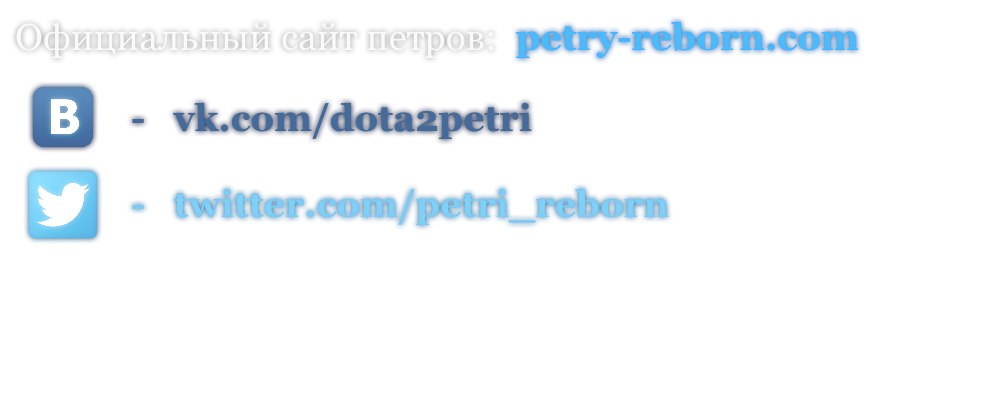
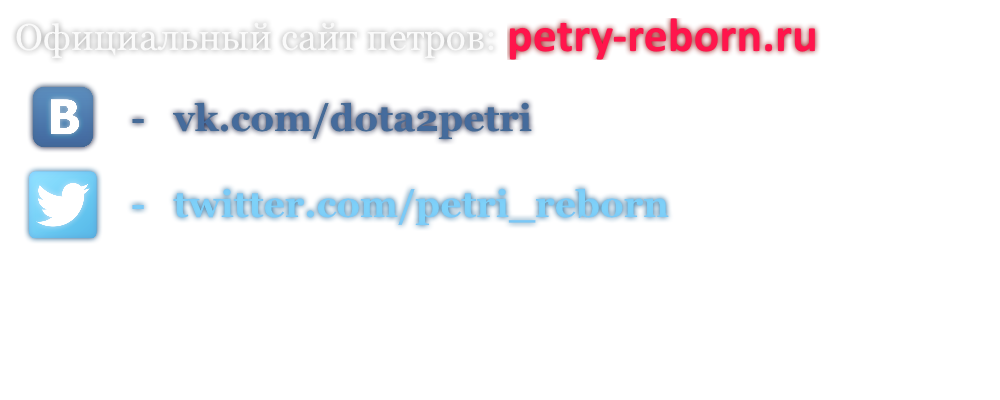
Fixed typo in loading screen picture

Changed region(s): [[0.496, 0.03, 0.868, 0.15]]

diff --git a/content/dota_addons/petri_reborn/panorama/styles/custom_game/custom_loading_screen.css b/content/dota_addons/petri_reborn/panorama/styles/custom_game/custom_loading_screen.css
@@ -44,7 +44,7 @@
 {
   width: 750px;
   height: 300px;
-  margin-top: 550px;
+  margin-top: 490px;
   margin-left: 25px;
 }
 
